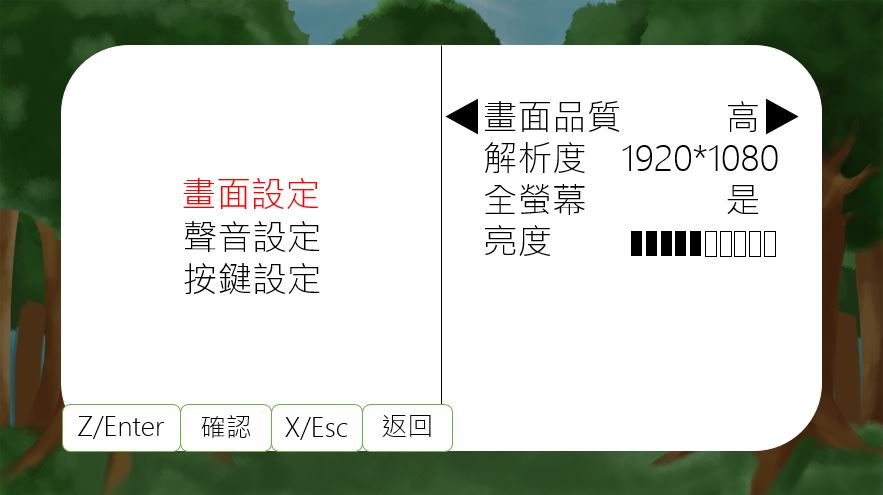
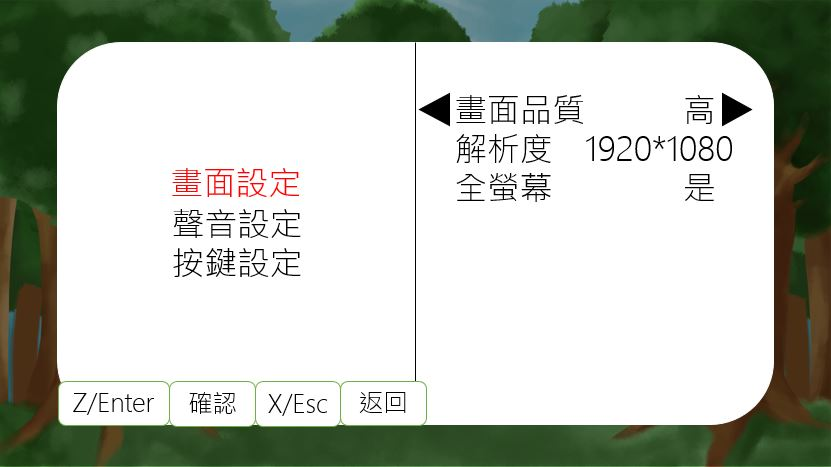
Add puzzle A.

diff --git a/index.html b/index.html
@@ -42,6 +42,8 @@
             <a href="#6.4.21" class="w3-bar-item w3-button">6.4.21 Mission D1</a>
             <a href="#6.4.22" class="w3-bar-item w3-button">6.4.22 Mission D2</a>
             <a href="#6.4.23" class="w3-bar-item w3-button">6.4.23 Mission D3</a>
+            <a href="#6.4.24" class="w3-bar-item w3-button">6.4.24 Puzzle A</a>
+            <a href="#6.4.25" class="w3-bar-item w3-button">6.4.25 Puzzle B</a>
         </div>
         <a href="#7" class="w3-bar-item w3-button">7 User Interface</a>
         <a href="#8" class="w3-bar-item w3-button">8 Camera</a>
@@ -1756,7 +1758,19 @@
                                     <td>-</td>
                                 </tr>
                                 <tr>
-                                    <td>C</td>
+                                    <td>C1</td>
+                                    <td>樓梯</td>
+                                    <td>變色</td>
+                                    <td>-</td>
+                                </tr>
+                                <tr>
+                                    <td></td>
+                                    <td>樓梯</td>
+                                    <td></td>
+                                    <td>-</td>
+                                </tr>
+                                <tr>
+                                    <td>C2</td>
                                     <td>樓梯</td>
                                     <td>變色</td>
                                     <td>-</td>
@@ -2188,7 +2202,13 @@
     前置條件：完成除了此任務外的所有任務。
     觸發位置：王位（2-5b）。
     觸發方法：完成前置條件並空手與小男孩對話，即可接到此任務。
-    任務流程：<ol><li>當完成所有NPC任務後，反面的NPC們皆會提示去找國王。</li><li>空手對著國王按X，國王會表示主角似乎有甚麼未完之事，還不能舉辦派對。此時密室（2-10）出現，場景限制b5解除。</li><li>在動力室（2-8b）解開謎題B（參見Puzzle B）即可打開【回憶之櫃】（裡面放有許多主角兒時的玩具（紙飛機、紙鶴、風箏等））。</li><li>手持【匕首】對著暗門按X，此時進入過場動畫。【匕首】成為【匕首（附魔）】。</li><li>進入密室（2-10）可以發現心魔（反面是鏡子）在房間的深處。</li><li>空手對著【鏡子】按X，可以看到在鏡子裡是正面的自己，因此兩面之間可以相互對話。</li><li>正面的自己會拋出許多「對話框」（可能有的很消極，有的很偏激），按Z後對話框會成為由心魔手掌形成的平台。跑酷到特定的平台（我們最滿意的對白，也意味著心魔的破綻），手持附魔的匕首按X，即可對心魔造成傷害。</li><li>普通的匕首無法對心魔造成傷害（攻擊彈開）。</li><li>在由心魔手掌形成的平台按Z則平台成為對話框，主角會從上跌落。</li><li>心魔會發射觸手形狀的砲彈（正面具傷害力，反面則無），主角被擊中一定次數後會被彈出場景。</li><li>對心魔造成一定的傷害後，心魔消失。</li><li>反面的鏡子內不再出現正面的自己，而是一面普通的鏡子照出反面的自己。</li><li>空手對著國王按X，國王表示玩家已經好轉，宴會開始。</li><li>進入過場動畫，第二關結束。</pre>
+    任務流程：<ol><li>當完成所有NPC任務後，反面的NPC們皆會提示去找國王。</li><li>空手對著國王按X，國王會表示主角似乎有甚麼未完之事，還不能舉辦派對。此時密室（2-10）出現，場景限制b5解除。</li><li>在動力室（2-8b）解開謎題B（參見Puzzle B）即可打開【回憶之櫃】（裡面放有許多主角兒時的玩具（紙飛機、紙鶴、風箏等））。</li><li>手持【匕首】對著暗門按X，此時進入過場動畫。【匕首】成為【匕首（附魔）】。</li><li>進入密室（2-10）可以發現心魔（反面是鏡子）在房間的深處。</li><li>空手對著【鏡子】按X，可以看到在鏡子裡是正面的自己，因此兩面之間可以相互對話。</li><li>正面的自己會拋出許多「對話框」（可能有的很消極，有的很偏激），按Z後對話框會成為由心魔手掌形成的平台。跑酷到特定的平台（我們最滿意的對白，也意味著心魔的破綻），手持附魔的匕首按X，即可對心魔造成傷害。</li><li>普通的匕首無法對心魔造成傷害（攻擊彈開）。</li><li>在由心魔手掌形成的平台按Z則平台成為對話框，主角會從上跌落。</li><li>心魔會發射觸手形狀的砲彈（正面具傷害力，反面則無），主角被擊中一定次數後會被彈出場景。</li><li>對心魔造成一定的傷害後，心魔消失。</li><li>反面的鏡子內不再出現正面的自己，而是一面普通的鏡子照出反面的自己。</li><li>空手對著國王按X，國王表示玩家已經好轉，宴會開始。</li><li>進入過場動畫，第二關結束。</li></ol></pre>
+                </div>
+                <div id="6.4.24">
+                    <h3>6.4.24 Puzzle A</h3>
+                    <pre style="white-space: pre-wrap;">    謎題流程：<ul><li>在鍋爐室（2-8c）正面的三個鍋爐上可以看到數字，由左而右依序為37/46/23。</li><li>在動力室（2-8a）正面可以看到【四個大齒輪】與【兩個小齒輪】（動力齒輪、驅動鍋爐齒輪）。初始進入場景時，四個大齒輪上分別顯示數位數字0/0/0/0；動力齒輪、驅動鍋爐齒輪上也分別顯示0。在四個大齒輪的下方都分別有【按鈕】，驅動鍋爐齒輪下方則有【啟動控制桿】。可參見下圖。
+<img src="image/6-4-24-a.png" width="500px"></img></li><li>在動力室（2-8a）反面可以看到【四個木車輪】（對應正面四個大齒輪），其輻條數由左而右分別為7/4/11/5。【兩個小齒輪】的反面為【木圓框】、【按鈕】的反面為【木板】、【啟動控制桿】的反面為【花】。可參見下圖。
+<img src="image/6-4-24-b.png" width="500px"></li><li>空手對著【按鈕】按X，會讓那個按鈕正上方的大齒輪數字+1，若此時數字為3則歸零。</li><li>空手對著【啟動控制桿】按X，動力齒輪開始轉動並依序帶動每個齒輪轉動，最後在【驅動鍋爐齒輪】上顯示數字。其數字為四個［大齒輪上數字］*［對應正面木車輪的輻條數］之和。</li><li>若【驅動鍋爐齒輪】上顯示數字為鍋爐上所標示的數字，則開啟對應的鍋爐。</li><li>參考謎底如下（解可能不唯一）：37（鍋爐）→2/2/0/3（大齒輪由左至右）、46→1/3/2/1、23→0/3/1/0。</li></ul></pre>
                 </div>
             </div>
         </div>
@@ -2211,7 +2231,7 @@
     <img src="image/7-1-2-a.JPG" width="600px">
     選項階層關係如下圖：
     <img src="image/7-1-2-b.png" width="400px">
-    選項內容如下：    <ol><li>畫面設定：均使用方向鍵左右來調整。<ol><li>畫面品質：依序提供低、中、高三個選項，對應到不同的畫面品質。</li><li>解析度：依序提供960x540、1280x720、1366x768、1600x900、1920x1080，對應到不同的解析度。</li><li>全螢幕：依序提供是、否，對應開啟全螢幕或視窗化。</li><li>亮度：提供十格給玩家調整。</li></ol></li><li>聲音設定：均提供十格給玩家調整（零格時為靜音）。<ol><li>主音量：對應到遊戲整體音量。</li><li>背景音量：僅對應到遊戲背景音樂音量部分。</li><li>音效音量：僅對應到遊戲音效音量部分。</li></ol></li><li>按鍵設定：提供玩家可以自由調整操作按鍵，注意到玩家只能更改「遊戲內」的操作按鍵，無法對「主選單」預設的操作按鍵進行更改。提供以下操作按鍵可自行調整：上、下、左、右、翻轉、互動、開關筆記本。當玩家focus到某一操作按鍵選項時，按下Z即可進入listen模式，此時玩家再次按下的某個按鍵就當成是該操作按鍵選項的更改值。在最後額外提供一個「恢復預設值」的按鍵給玩家，若玩家選取該選項並按Z／Enter即將該操作按鍵恢復預設值。</li></ol></pre>
+    選項內容如下：    <ol><li>畫面設定：均使用方向鍵左右來調整。<ol><li>畫面品質：依序提供低、中、高三個選項，對應到不同的畫面品質。</li><li>解析度：依序提供960x540、1280x720、1366x768、1600x900、1920x1080，對應到不同的解析度。</li><li>全螢幕：依序提供是、否，對應開啟全螢幕或視窗化。</li></ol></li><li>聲音設定：均提供十格給玩家調整（零格時為靜音）。<ol><li>主音量：對應到遊戲整體音量。</li><li>背景音量：僅對應到遊戲背景音樂音量部分。</li><li>音效音量：僅對應到遊戲音效音量部分。</li></ol></li><li>按鍵設定：提供玩家可以自由調整操作按鍵，注意到玩家只能更改「遊戲內」的操作按鍵，無法對「主選單」預設的操作按鍵進行更改。提供以下操作按鍵可自行調整：上、下、左、右、翻轉、互動、開關筆記本。當玩家focus到某一操作按鍵選項時，按下Z即可進入listen模式，此時玩家再次按下的某個按鍵就當成是該操作按鍵選項的更改值。在最後額外提供一個「恢復預設值」的按鍵給玩家，若玩家選取該選項並按Z／Enter即將該操作按鍵恢復預設值。</li></ol></pre>
             </div>
             <div id="7.2">
                 <h2 title="18/06/14">7.2 Ingame</h2>
